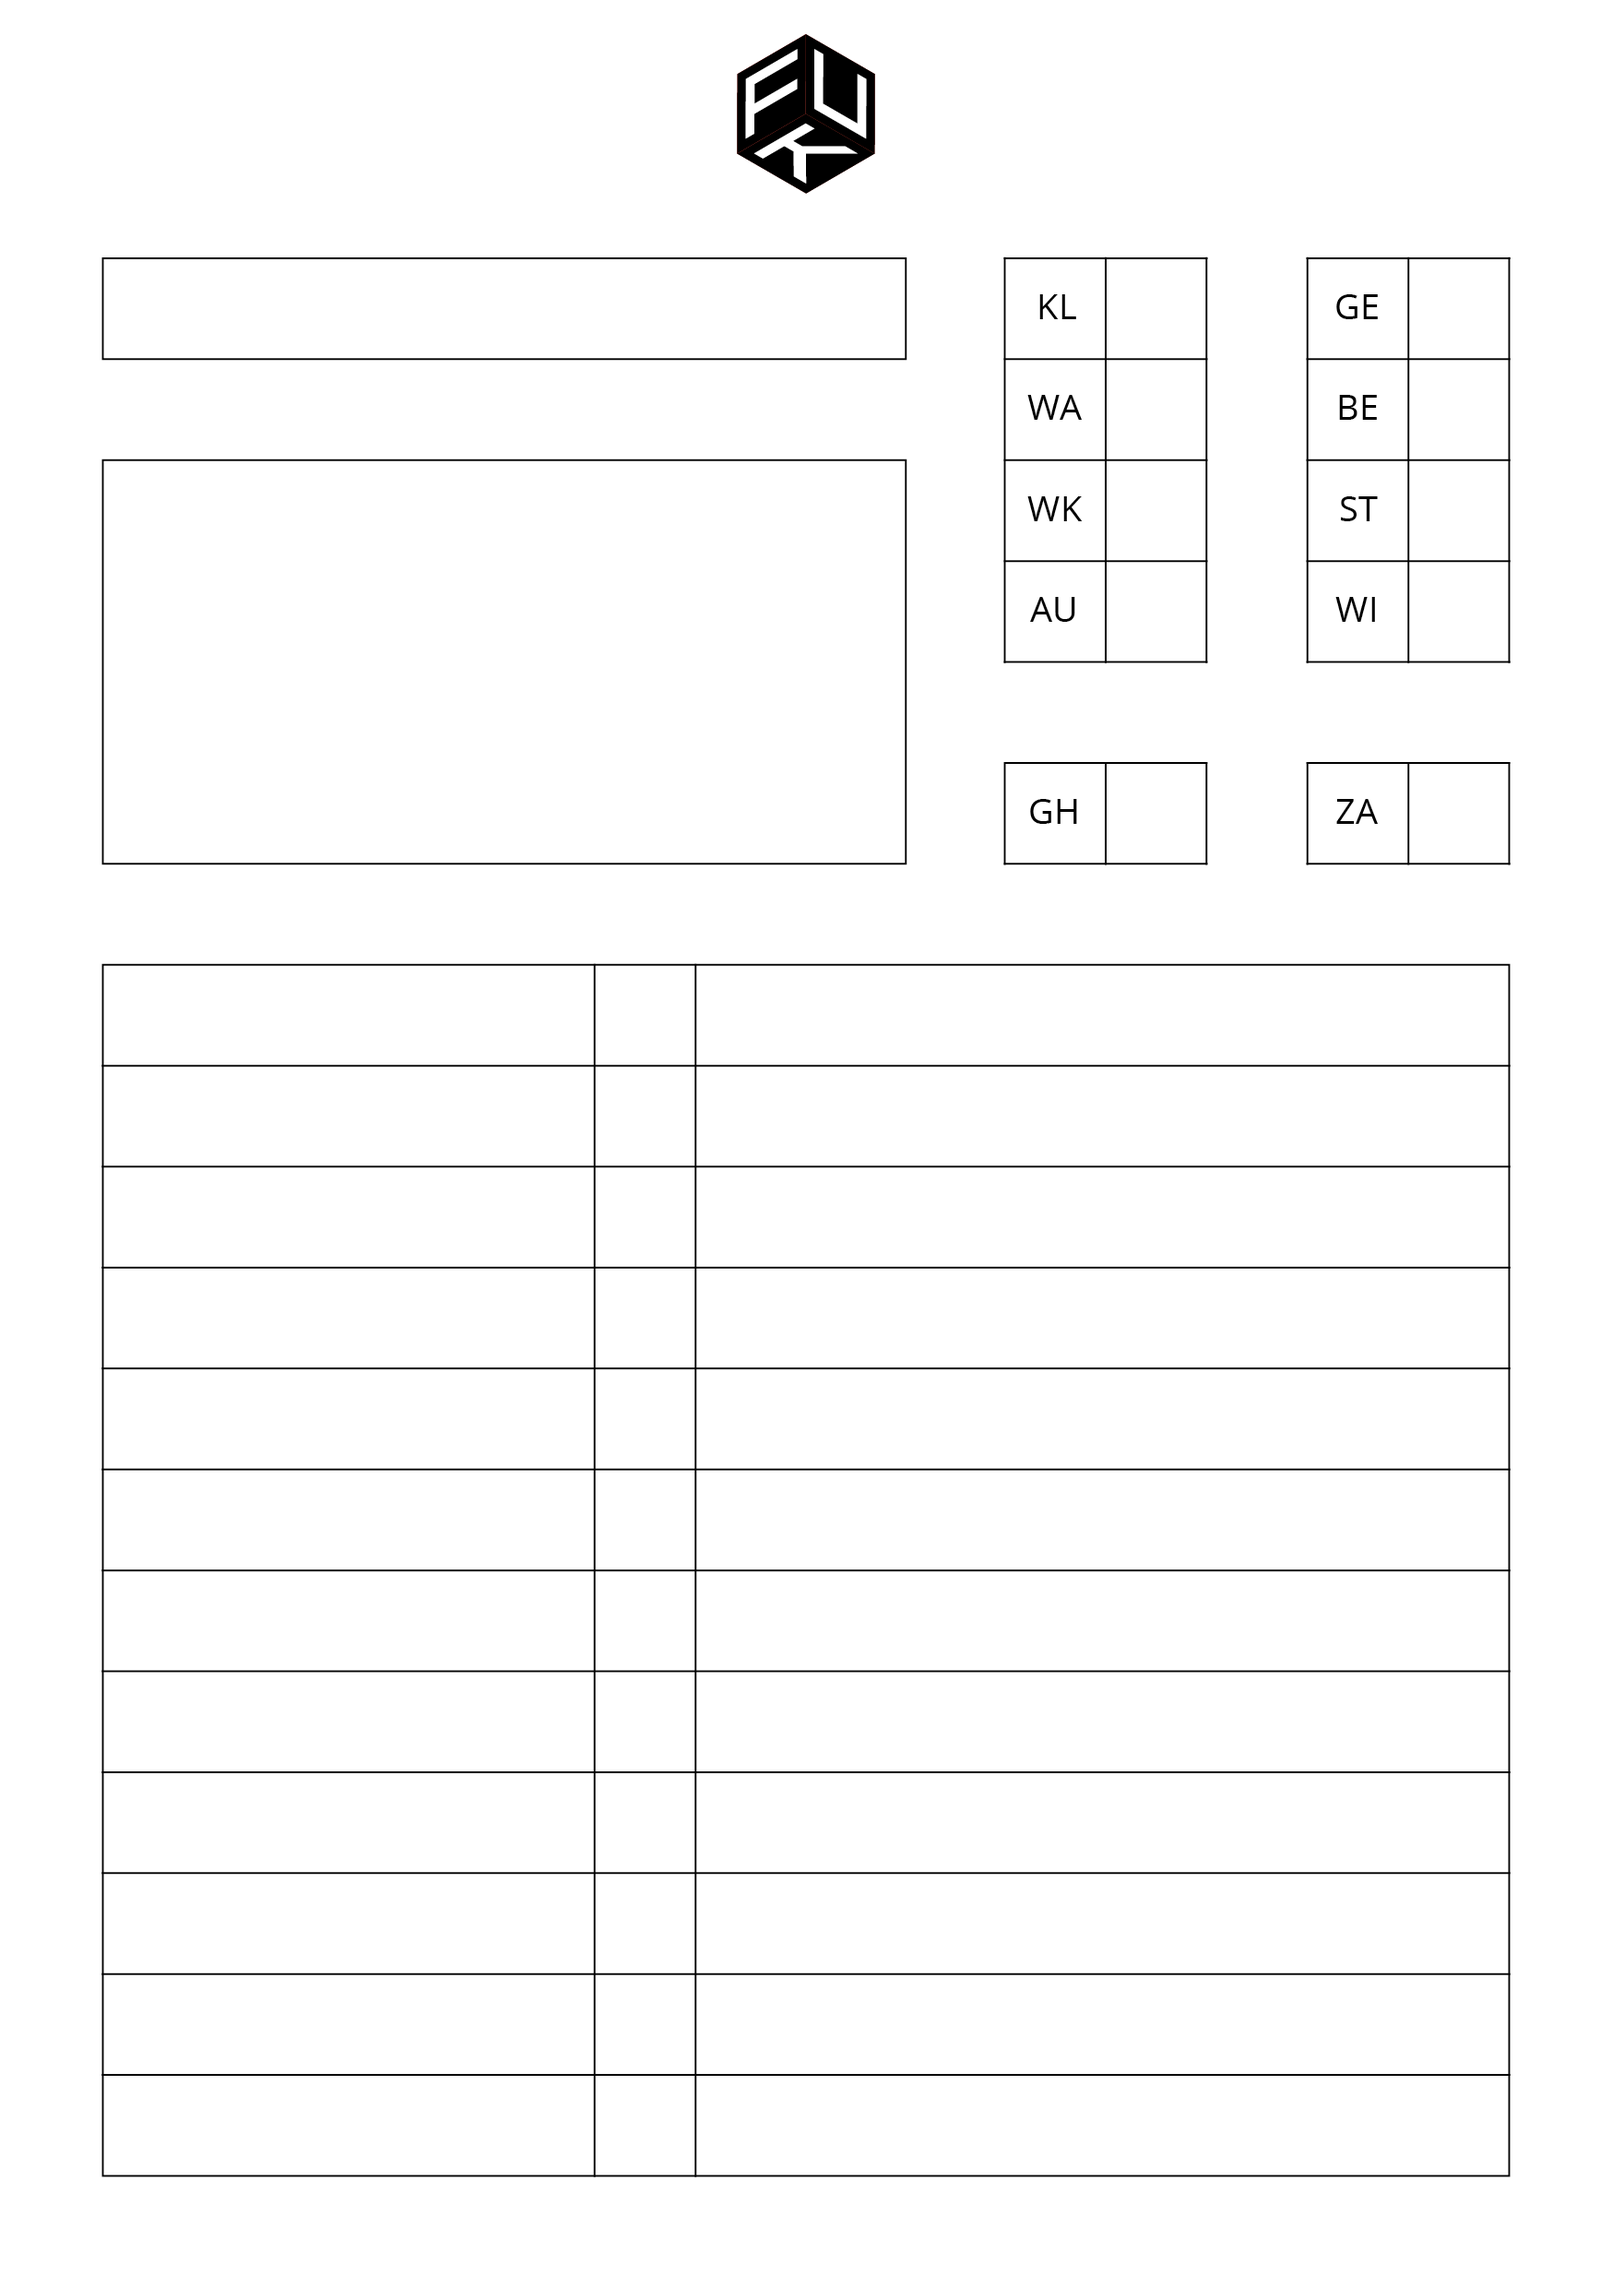
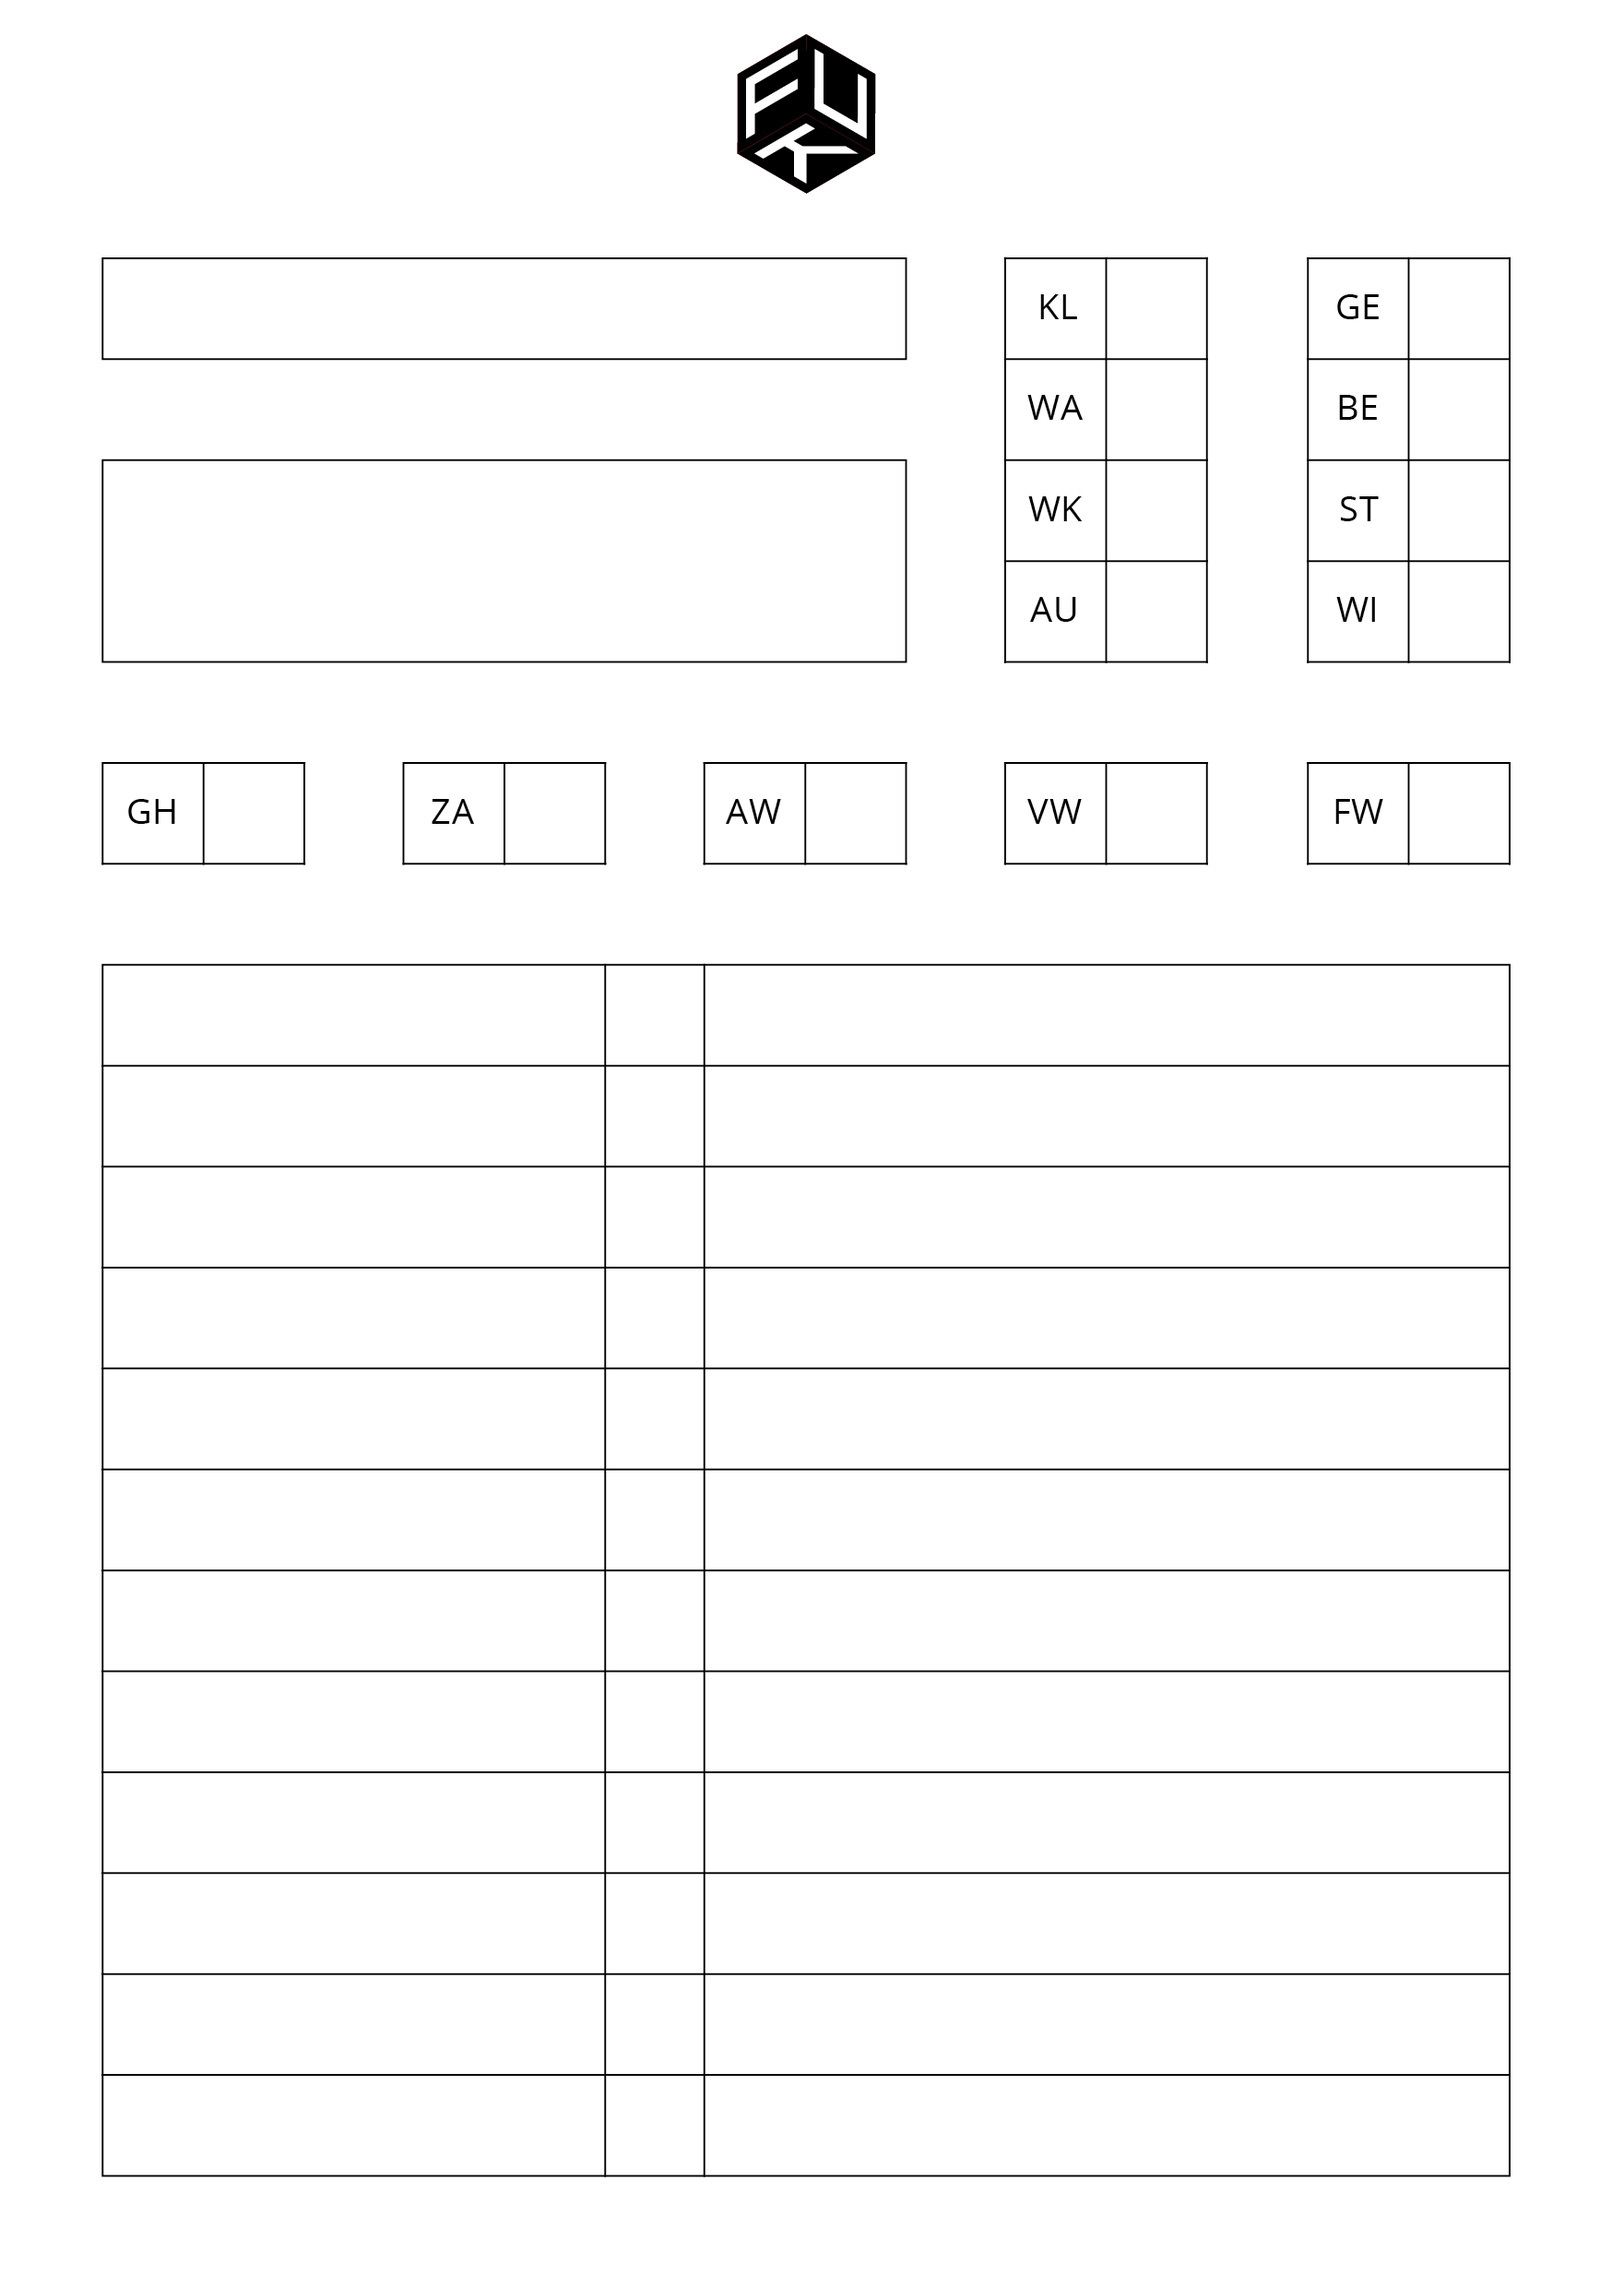
Fertigkeiten auf das Dokument geschrieben, aber noch fehlerhaft.

diff --git a/Fuk/fertigkeitdocumentitem.cpp b/Fuk/fertigkeitdocumentitem.cpp
@@ -1,6 +1,69 @@
 #include "fertigkeitdocumentitem.h"
 
-FertigkeitDocumentItem::FertigkeitDocumentItem()
-{
+FertigkeitDocumentItem::FertigkeitDocumentItem(int x, int y, int width, int heigth,
+                                               Ptr<Charakter> charakter): BeschreibungDocumentItem(x,y,width,heigth,charakter){
 
 }
+
+
+void FertigkeitDocumentItem::paint(QPainter *painter, const QStyleOptionGraphicsItem *option, QWidget *widget){
+
+    painter->setFont(QFont("times",30));
+    int px = 2; // dicke der Linie
+
+    int tmpHeightName = 107;
+    int tmpWidthName = 543;
+
+    int tmpHeightMerkmal = 107;
+    int tmpWidthMerkmal = 107;
+
+    int tmpHeightSatz = 107;
+    int tmpWidthSatz = 871;
+
+
+    int xCurrent = x;
+    int yCurrent = y;
+
+    int half = 107 / 4;
+
+    QVector<Fertigkeit>* vector = charakter->getFertigkeiten();
+
+    QVectorIterator<Fertigkeit> it(*vector);
+
+    while(it.hasNext()){
+
+        Fertigkeit fertigkeit = it.next();
+        QString strMerkmal = MerkmalNamen[fertigkeit.getMerkmal()];
+        strMerkmal = strMerkmal.mid(0,2);
+        QString satz = fertigkeit.getSatz();
+        QString name = fertigkeit.getName();
+
+        QRectF fertigkeitRectName(xCurrent,yCurrent + half,tmpWidthName,tmpHeightName);
+        painter->drawText(fertigkeitRectName,Qt::TextWordWrap, name);
+
+        int xCurrentMerkmal = xCurrent + px + tmpWidthName;
+        QRectF fertigkeitRectMerkmal( xCurrentMerkmal + half,yCurrent + half,tmpWidthMerkmal,tmpHeightMerkmal);
+        painter->drawText(fertigkeitRectMerkmal,Qt::TextWordWrap, strMerkmal);
+
+        int xCurrentSatz = xCurrentMerkmal + px + tmpWidthMerkmal;
+
+        QRectF fertigkeitRectSatz( xCurrentSatz,yCurrent + half,tmpWidthSatz,tmpHeightSatz);
+        painter->drawText(fertigkeitRectSatz,Qt::TextWordWrap, satz);
+
+        xCurrent = xCurrent + px + tmpHeightName;
+        yCurrent = yCurrent + px + tmpWidthName;
+    }
+}
+
+/*
+
+QFont boldFont = painter->font();
+boldFont.setBold(true);
+painter->setFont(boldFont);
+painter->drawText(boundingRect(),Qt::TextWordWrap, "Beschreibung deines Charakters");
+painter->setFont(font);
+
+QRectF beschreibung(x,y+50,width,heigth);
+
+painter->drawText(beschreibung,Qt::TextWordWrap, ch->getBeschreibung());
+*/

diff --git a/Fuk/eigenschaftendocumentitem.cpp b/Fuk/eigenschaftendocumentitem.cpp
@@ -45,11 +45,23 @@ void EigenschaftenDocumentItem::paint(QPainter *painter, const QStyleOptionGraph
 
     //--
 
-    int xGH = 1200;
+    // das folgende ggf. auslagern in eine eigene Klasse
+    int xGH = 221;
     int yGH = 828;
 
-    int xZA = 1528;
+    int xZA = 548;
     int yZA = 828;
+
+    int xAW = 874;
+    int yAW = 828;
+
+    int xVW = 1200;
+    int yVW = 828;
+
+    int xFW = 1528;
+    int yFW = 828;
+
+
 
     QRectF kl(xKL + half ,yKL + half,tmpWidth,tmpHeight);
     QRectF wa(xWA + half ,yWA + half,tmpWidth,tmpHeight);
@@ -63,6 +75,9 @@ void EigenschaftenDocumentItem::paint(QPainter *painter, const QStyleOptionGraph
 
     QRectF gh(xGH + half ,yGH + half,tmpWidth,tmpHeight);
     QRectF za(xZA + half ,yZA + half,tmpWidth,tmpHeight);
+    QRectF aw(xAW + half ,yAW + half,tmpWidth,tmpHeight);
+    QRectF vw(xVW + half ,yVW + half,tmpWidth,tmpHeight);
+    QRectF fw(xFW + half ,yFW + half,tmpWidth,tmpHeight);
 
     painter->drawText(kl,Qt::TextWordWrap, QString::number(charakter->getEigenschaft(Merkmal::KLUGHEIT).getWert()));
     painter->drawText(wa,Qt::TextWordWrap, QString::number(charakter->getEigenschaft(Merkmal::WAHRNEHMUNG).getWert()));
@@ -76,18 +91,10 @@ void EigenschaftenDocumentItem::paint(QPainter *painter, const QStyleOptionGraph
 
     painter->drawText(gh,Qt::TextWordWrap, QString::number(charakter->getGesundheit()));
     painter->drawText(za,Qt::TextWordWrap, QString::number(charakter->getZauberwert()));
+    painter->drawText(aw,Qt::TextWordWrap, QString::number(charakter->getAngriffsWert()));
+    painter->drawText(vw,Qt::TextWordWrap, QString::number(charakter->getVerteidigungswert()));
+    painter->drawText(fw,Qt::TextWordWrap, QString::number(charakter->getFernkampf()));
 
 
 }
-/*
 
-QFont boldFont = painter->font();
-boldFont.setBold(true);
-painter->setFont(boldFont);
-painter->drawText(boundingRect(),Qt::TextWordWrap, "Beschreibung deines Charakters");
-painter->setFont(font);
-
-QRectF beschreibung(x,y+50,width,heigth);
-
-painter->drawText(beschreibung,Qt::TextWordWrap, ch->getBeschreibung());
-*/

diff --git a/Fuk/overview.cpp b/Fuk/overview.cpp
@@ -5,7 +5,7 @@
 #include "beschreibungdocumentitem.h"
 #include "headlinedocumentitem.h"
 #include "eigenschaftendocumentitem.h"
-
+#include "fertigkeitdocumentitem.h"
 
 #include <QMessageBox>
 #include <QGraphicsEllipseItem>
@@ -32,26 +32,21 @@ Overview::Overview(QWidget *parent,Ptr<CharakterManager> charakterManager) :
 
     connect(ui->verwerfenButton,SIGNAL(clicked()),this,SLOT(verwerfen()));
     connect(ui->druckenButton,SIGNAL(clicked()),this,SLOT(drucken()));
-
 }
 
 
 void Overview::paint(Ptr<Charakter> charakter){
-
     BogenDocumentItem* bogen = new BogenDocumentItem(0,0,1748,2480);
-
     HeadLineDocumentItem* headline = new HeadLineDocumentItem(112,281,869,107, tr("Charakterdokument - ") + Constants::version,charakter);
-
-    BeschreibungDocumentItem* beschreibungDocumentItem = new BeschreibungDocumentItem(112,499,868,436,charakter);
-
+    BeschreibungDocumentItem* beschreibungDocumentItem = new BeschreibungDocumentItem(112,499,869,217,charakter);
     EigenschaftenDocumentItem* eigenschaftenDocumentItem = new EigenschaftenDocumentItem(1090,281,554,645,charakter);
+    FertigkeitDocumentItem* fertigkeitDocumentItem = new FertigkeitDocumentItem(112,1046,1523,1311,charakter);
 
     scene->addItem(bogen);
     scene->addItem(headline);
     scene->addItem(beschreibungDocumentItem);
     scene->addItem(eigenschaftenDocumentItem);
-
-
+    scene->addItem(fertigkeitDocumentItem);
 }
 
 

diff --git a/Fuk/beschreibungdocumentitem.cpp b/Fuk/beschreibungdocumentitem.cpp
@@ -14,18 +14,18 @@ void BeschreibungDocumentItem::paint(QPainter *painter, const QStyleOptionGraphi
     int width = rect.width();
     int heigth = rect.height();
 
-    painter->setFont(QFont("times",32));
+    painter->setFont(QFont("times",30));
 
-    QFont font = painter->font();
+    //QFont font = painter->font();
 
 
-    QFont boldFont = painter->font();
-    boldFont.setBold(true);
-    painter->setFont(boldFont);
-    painter->drawText(boundingRect(),Qt::TextWordWrap, "Beschreibung deines Charakters");
-    painter->setFont(font);
+    //QFont boldFont = painter->font();
+    //boldFont.setBold(true);
+    //painter->setFont(boldFont);
+    //painter->drawText(boundingRect(),Qt::TextWordWrap, "Beschreibung deines Charakters");
+    //painter->setFont(font);
 
-    QRectF beschreibung(x,y+50,width,heigth);
+    QRectF beschreibung(x,y,width,heigth);
 
     painter->drawText(beschreibung,Qt::TextWordWrap, ch->getBeschreibung());
 

diff --git a/Fuk/fertigkeitdocumentitem.h b/Fuk/fertigkeitdocumentitem.h
@@ -1,11 +1,16 @@
 #ifndef FERTIGKEITDOCUMENTITEM_H
 #define FERTIGKEITDOCUMENTITEM_H
 
+#include <QPainter>
+#include <QGraphicsItem>
+#include "beschreibungdocumentitem.h"
+#include "charaktermanager.h"
 
-class FertigkeitDocumentItem
+class FertigkeitDocumentItem : public BeschreibungDocumentItem
 {
 public:
-    FertigkeitDocumentItem();
+    FertigkeitDocumentItem(int x, int y, int width, int heigth, Ptr<Charakter> charakter);
+    void paint(QPainter *painter, const QStyleOptionGraphicsItem *option, QWidget *widget);
 };
 
 #endif // FERTIGKEITDOCUMENTITEM_H

diff --git a/Fuk/main.cpp b/Fuk/main.cpp
@@ -19,7 +19,7 @@ int main(int argc, char *argv[])
     s.show();
 
 
-  /*  Ptr<CharakterManager> charakterManagerPtr = Ptr<CharakterManager>(new CharakterManager());
+    /*Ptr<CharakterManager> charakterManagerPtr = Ptr<CharakterManager>(new CharakterManager());
 
     auto charakterManager = charakterManagerPtr.get();
 
@@ -42,7 +42,8 @@ int main(int argc, char *argv[])
     Overview o(NULL,charakterManagerPtr);
     o.paint(charakterManagerPtr->getCurrentCharakter());
     o.show();
-*/
+
+    */
     return a.exec();
 }
 

diff --git a/Fuk/eigenschaftendocumentitem.h b/Fuk/eigenschaftendocumentitem.h
@@ -8,9 +8,6 @@
 
 class EigenschaftenDocumentItem : public BeschreibungDocumentItem
 {
-//protected:
-//    Ptr<Charakter> charakter;
-
 public:
     EigenschaftenDocumentItem(int x, int y, int width, int heigth,
                               Ptr<Charakter> charakter);

diff --git a/Fuk/fertigkeit.h b/Fuk/fertigkeit.h
@@ -24,7 +24,7 @@ public:
 
     QString getName() const;
     QString getSatz() const;
-    Merkmal getMerkmal();
+    Merkmal getMerkmal() const;
 
     void setName(const QString name);
     void setSatz(const QString satz);

diff --git a/Fuk/fertigkeit.cpp b/Fuk/fertigkeit.cpp
@@ -24,7 +24,7 @@ void Fertigkeit::setSatz(const QString satz){
     this->satz = satz;
 }
 
-Merkmal Fertigkeit::getMerkmal(){
+Merkmal Fertigkeit::getMerkmal() const{
     return merkmal;
 }
 
